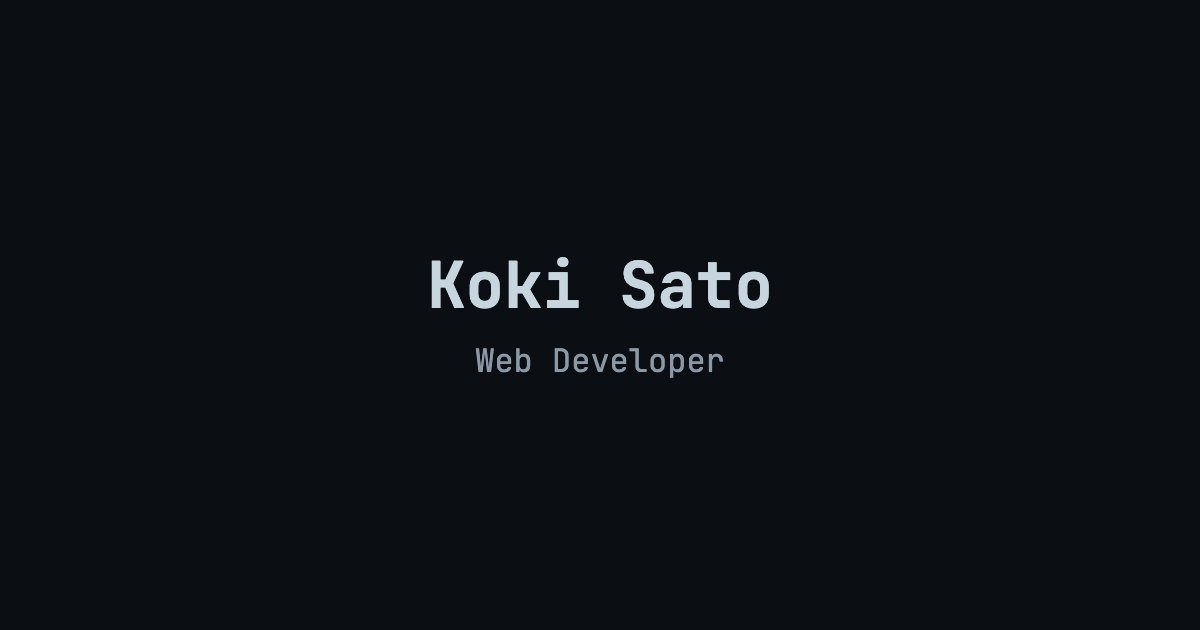
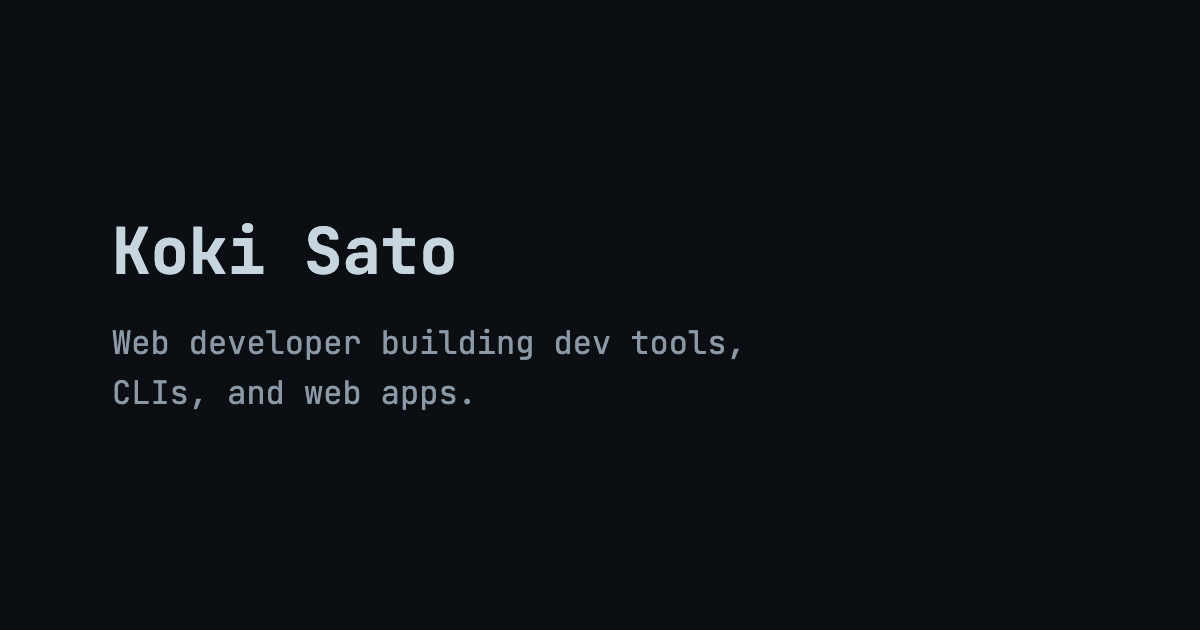
style: left-align the OG image and give it the bio instead of the role
The frame now sets the profile bio under the name, wrapped at the comma so
"apps." doesn't strand on its own line, and insets the block past the top of
the spacing scale so the left edge reads as deliberate.

diff --git a/src/og/OgPage.module.css b/src/og/OgPage.module.css
@@ -5,8 +5,17 @@
   width: 600px;
   height: 315px;
   background: var(--ps1ui-color-bg);
-  padding: 0 var(--ps1ui-space-2xl);
-  /* A role long enough to overflow would bleed out of the screenshot rather
+  /* Past --ps1ui-space-2xl, the top of the spacing scale: 32px is the inset of
+     a content column, and this frame is a poster. */
+  padding: 0 56px;
+  /* A line long enough to overflow would bleed out of the screenshot rather
      than being clipped. */
   overflow: hidden;
+}
+
+/* The bio wraps at any width this frame allows; the measure only picks where.
+   34 columns breaks it at the comma after "dev tools," instead of stranding
+   "apps." alone on the second line. `ch` is exact in a monospace frame. */
+.bio {
+  max-width: 34ch;
 }
